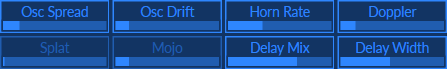
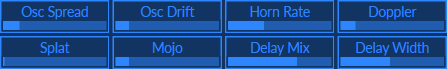
Fixup BBBraz, Add Tchime

diff --git a/README.md b/README.md
@@ -73,13 +73,43 @@ but the bell is brighter because it skips F1.
 Tbestbrofbraz
 ---
 I approached brass from the FM side.  I approached brass from the subtractive side.
-They each had what the other lacked, a problem easily solved
+Each side had what the other lacked, a problem easily solved
 by [Surge's scenes!](https://surge-synthesizer.github.io/manual/#the-scene-concept)
 It is the "Best of Both Brass" because of its two sides.
 
-It handles all brass in [Surgerstition](Superstition.mp3)
+It handles all brass in [Surgerstition](https://github.com/ToddHartmann/patches/blob/readme-reinit/Superstition.mp3?raw=true)
+<p style="text-align:left;"><img src="BestBrass.png" width="477" height="69" alt="BestBrass" title="Best of Both Brass"/></p>
 
-Tchime.fxp
+|||
+|-|-|
+|**Osc Spread**|Left-Right pitch difference|
+|**Osc Drift**|Adds randomness to osc pitches|
+|**Horn Rate**|Leslie Sim Speed|
+|**Doppler**|Leslie Sim Depth|
+|**Splat**|Severity of Attack|
+|**Mojo**|Resonance for Fun|
+|**Delay Mix**|How much delayed sound|
+|**Delay Width**|Stereoness of delayed sound|
+|**Mod Wheel**|Mellow to Strident|
+
+Tchime
+---
+Reminiscent of an FM doorbell chime, but useful for much else besides!
+<p style="text-align:left;"><img src="Tchime.png" width="477" height="69" alt="Tchime" title="Tchime"/></p>
+
+|||
+|-|-|
+|**Osc Spread**|Left-Right pitch difference|
+|**Osc Drift**|Adds randomness to osc pitches|
+|**Brass**|Adds some metallic harmonics|
+|**Zap**|Opens filter, squeegies out ears|
+|**Buzz**|Kazooness|
+|**Wobble**|Wobulated high freqs|
+|**Top**|Amount of up-octave osc|
+|**Vib Rate**|Vibrato Rate|
+|**Mod Wheel**|Vibrato Magnitude|
+
+
 Tefbelmo.fxp
 Tefempino.fxp
 Temutu.fxp
